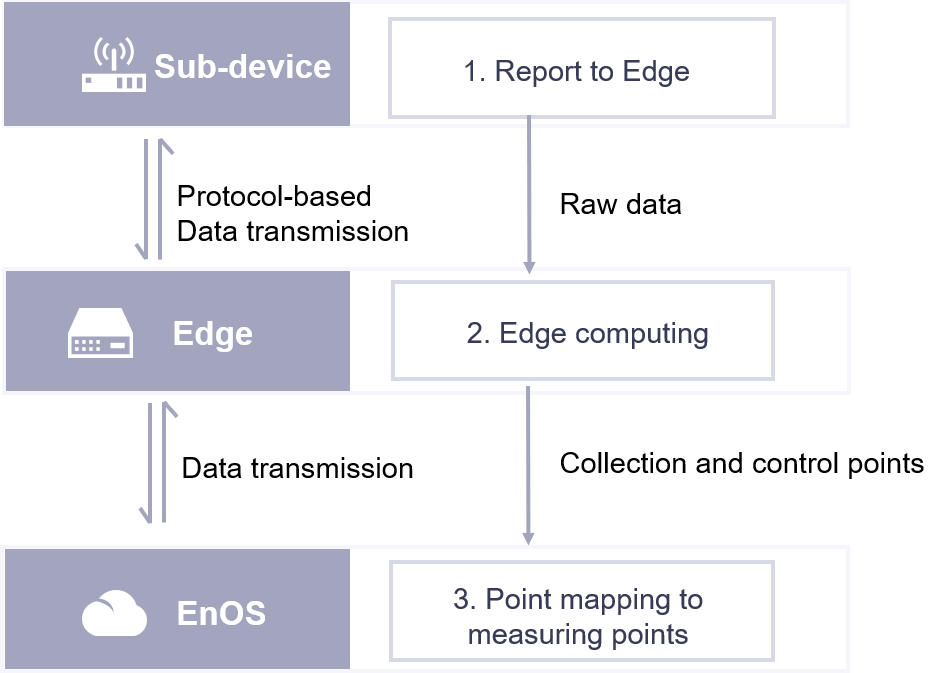
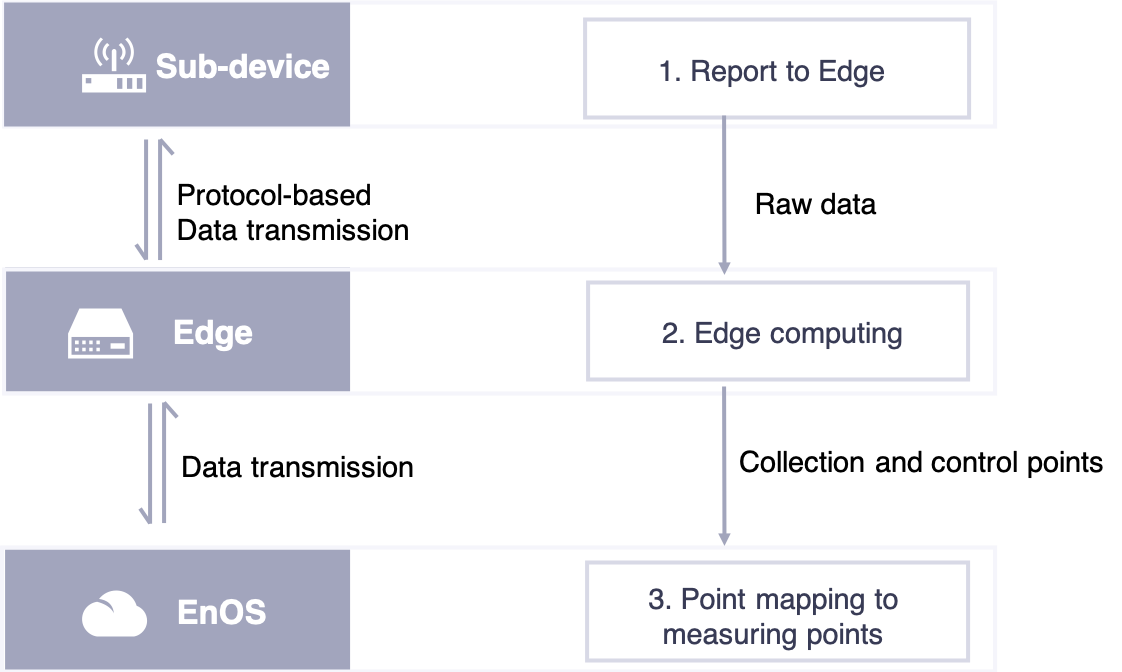
Update.

diff --git a/learn/data_ingestion_normalization.md b/learn/data_ingestion_normalization.md
@@ -3,6 +3,7 @@
 A sub-device communicates with EnOS Edge with a protocol. Edge uploads the specified collection point and control point information to EnOS according to *point.csv* in the protocol. EnOS then directly maps the raw data to measuring points defined in models or process the raw data with calculating scripts before mapping it to measuring points, as defined in the template.
 
 .. image:: ../media/edge_work_flow.png
+   :width: 400px
 
 ## Connecting with EnOS via Protocols
 
@@ -32,7 +33,7 @@ Based on the device protocol library, the Edge can quickly connect industrial de
    * - Centralized power station monitoring system
      - Third-party system
      - --
-   * - Substation comprehensive automation system 
+   * - Substation comprehensive automation system
      - Device
      - --
    * - Wind energy
@@ -69,7 +70,7 @@ In support of the data processing logic of applications in the cloud, Edge not o
 
 - The raw data time is saved as an attribute of a data entry and uploaded to the cloud.
 
-- Edge timestamps a data entry in coordinated universal time (UTC). 
+- Edge timestamps a data entry in coordinated universal time (UTC).
 
 - Edge converts earlier timestamps created with different protocols into a uniform format. If the earlier timestamp sent by a certain device is UTC+8, it can be converted to UTC+0.
 
